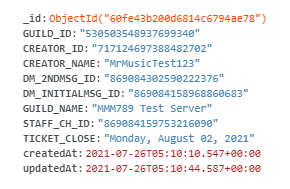
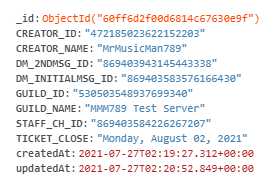
New screenshot, trying to fix DMing the user from ticket channel

Changed region(s): [[0.0588, 0.0535, 0.9706, 0.9358]]

diff --git a/botEvents/messageCreate.js b/botEvents/messageCreate.js
@@ -124,9 +124,12 @@ module.exports = {
                 CREATOR_NAME: dmUsername
             }).exec();
 
+            // FETCHING THE GUILD FROM DATABASE
+            guildId = dbTicketData.GUILD_ID
+            guild = client.guilds.cache.get(guildId)
 
-            // FETCH THE USER FROM THE CHANNEL NAME
-            const dmUser = await client.guild.members.fetch(dbTicketData.CREATOR_ID)
+            // FETCH THE USER USING THEIR ID FROM THE DATABASE USING THE CHANNEL NAME
+            const dmUser = await guild.members.fetch(dbTicketData.CREATOR_ID)
             
             console.log(`dmUser = ${dmUser}`)
 
